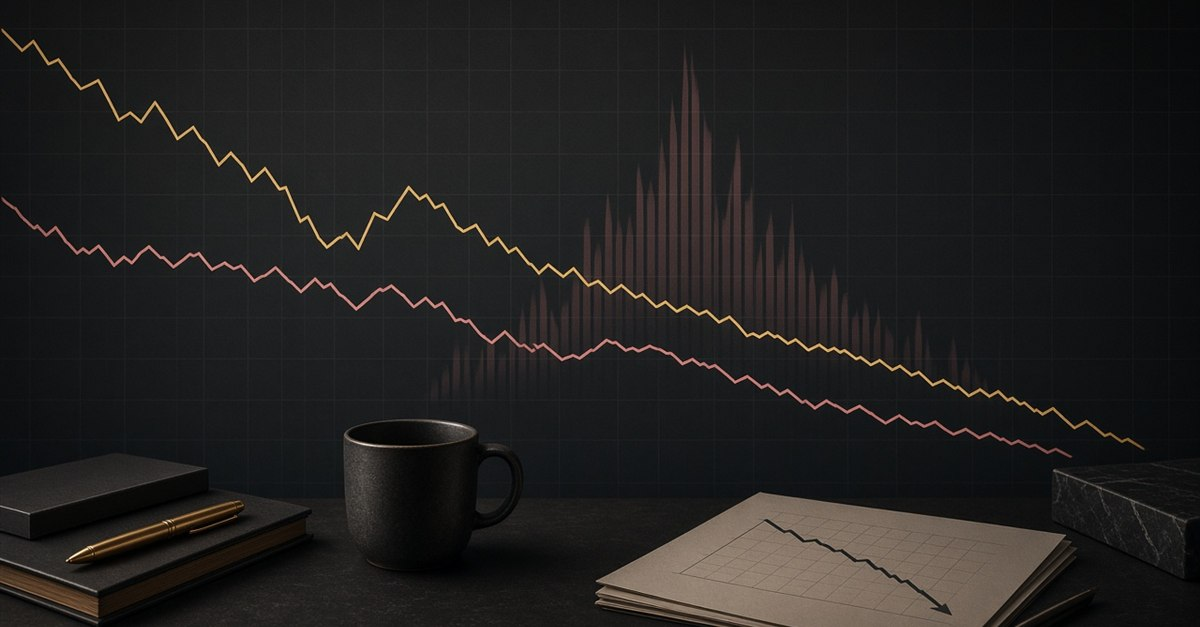
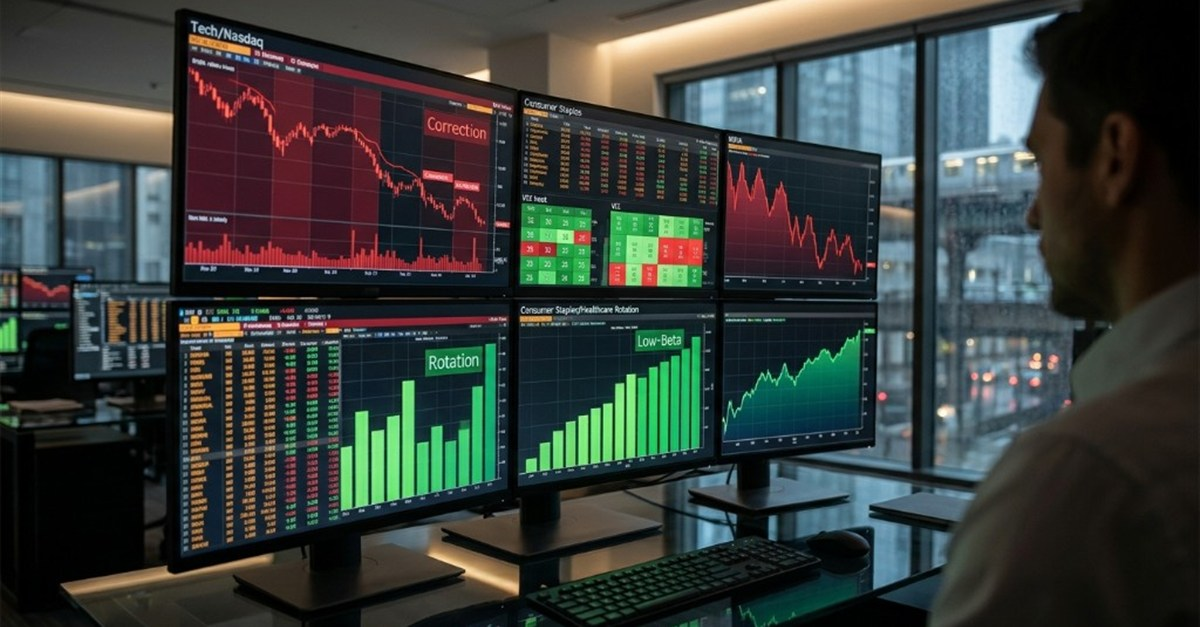
Use trading-desk photo as the Nov 20 sell-off cover and LinkedIn OG image.

diff --git a/loverble/src/routes/finance_.us.$slug.tsx b/loverble/src/routes/finance_.us.$slug.tsx
@@ -19,7 +19,7 @@ import {
 const OG_BY_SLUG: Record<string, string> = {
   [US_ANTHROPIC_IPO_SLUG]: "https://www.smartalgosts.com/og/anthropic-ipo-ant-nasdaq.jpg",
   [US_BUY_STOCKS_KE_SLUG]: "https://www.smartalgosts.com/og/buy-us-stocks-from-kenya.jpg",
-  [US_NOV20_SELL_OFF_SLUG]: "https://www.smartalgosts.com/og/nov-20-sell-off.jpg",
+  [US_NOV20_SELL_OFF_SLUG]: "https://www.smartalgosts.com/og/nov-20-sell-off-desk.jpg",
 };
 
 const TOC_BY_SLUG: Record<string, Array<{ href: string; label: string }>> = {

diff --git a/loverble/src/lib/finance-notes.ts b/loverble/src/lib/finance-notes.ts
@@ -688,7 +688,7 @@ export const financeNotes: FinanceNote[] = [
           description:
             "Verified Nov 20, 2026 closing data, evidence for and against each explanation, and corrected equity-duration and volatility-targeting math.",
           inLanguage: "en",
-          image: `${SITE}/og/nov-20-sell-off.jpg`,
+          image: `${SITE}/og/nov-20-sell-off-desk.jpg`,
           ...orgGraphExtras(`${SITE}/finance/us/${US_NOV20_SELL_OFF_SLUG}`, "2026-11-21"),
         },
       ],
